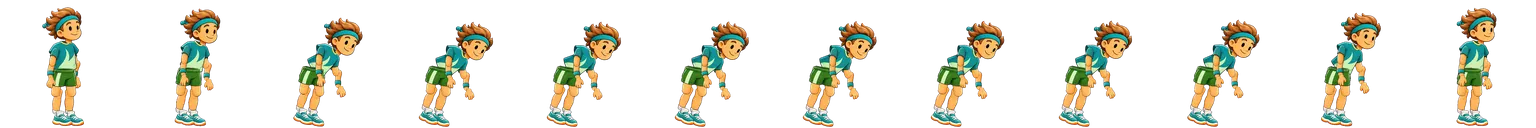
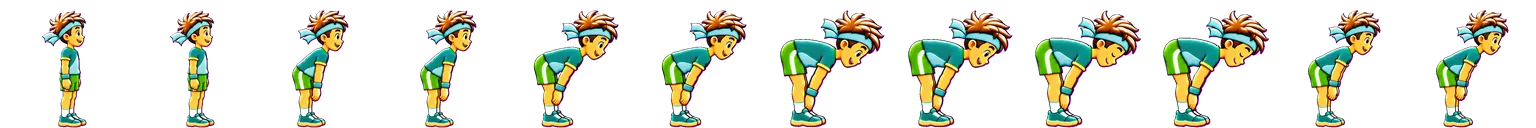
0.31.0: full-figure drawn exercise animations (23 drawn + wu_skips rig), 6 poses held for 2 frames
Claude-Session: https://claude.ai/code/session_015MgUfxYvuaf2H4JGRA2gxD

diff --git a/web/sw.js b/web/sw.js
@@ -1,5 +1,5 @@
 // Offline-first service worker. VERSION is kept equal to version.json by scripts/bump-version.mjs (a unit test enforces it).
-const VERSION = '0.30.0';
+const VERSION = '0.31.0';
 const CACHE = `stepup-${VERSION}`;
 const SHELL = ['./', 'index.html', 'manifest.webmanifest', 'version.json', 'icon.svg', 'css/packs.css', 'css/app.css',
   'js/app.js', 'js/routePlan.js', 'js/planner.js', 'js/planApi.js', 'js/ui/mapScreen.js', 'js/ui/planner.js', 'js/theme-boot.js', 'js/util.js', 'js/i18n.js', 'js/native.js', 'js/icons.js', 'js/brand.js', 'js/brandData.js', 'js/iconData.js', 'js/geo.js', 'js/workout.js', 'js/metronome.js', 'js/cadence.js', 'js/audio.js', 'js/format.js', 'js/store.js', 'js/ui/home.js', 'js/plan.js', 'js/indicators.js', 'js/appVersion.js', 'js/art.js', 'js/voice.js', 'js/records.js', 'js/facts.js', 'js/actions.js', 'js/guide.js', 'js/strings08.js', 'js/strings09.js', 'js/strings10.js', 'js/strings11.js', 'js/appShare.js', 'js/changelog.js', 'js/ui/shareApp.js', 'js/ui/whatsnew.js', 'js/permissions.js', 'js/ui/permissions.js', 'js/characterData.js', 'js/puppetRig.js', 'js/ui/puppet.js', 'js/ui/character.js', 'art/character/walk.webp', 'art/character/run.webp', 'art/character/pose-idle.webp', 'art/character/pose-jump.webp', 'art/character/pose-cheer.webp', 'art/character/pose-wave.webp', 'art/character/pose-rest.webp', 'art/character/pose-stretch.webp', 'art/character/pose-medal.webp', 'art/character/pose-trophy.webp', 'art/character/pose-podium.webp', 'art/character/pose-point.webp', 'art/character/pose-think.webp', 'art/character/pose-sit.webp', 'art/character/pose-sleep.webp', 'art/character/pose-rain.webp', 'js/weatherAnim.js', 'js/weatherAnimData.js', 'js/ui/skynow.js', 'js/ui/hourdetail.js', 'js/ui/progress.js', 'js/ui/imap.js', 'js/ui/mapviewer.js', 'js/ui/marks.js', 'js/exercises.js', 'js/exerciseData.js', 'js/ui/exercises.js', 'js/strings12.js', 'js/ui/directions.js', 'js/nav.js', 'js/ui/weather.js', 'art/weather-anim/clear_day.webp', 'art/weather-anim/clear_night.webp', 'art/weather-anim/drizzle_day.webp', 'art/weather-anim/fog_day.webp', 'art/weather-anim/freezing_rain_day.webp', 'art/weather-anim/hail_day.webp', 'art/weather-anim/heavy_rain_day.webp', 'art/weather-anim/mostly_clear_day.webp', 'art/weather-anim/mostly_clear_night.webp', 'art/weather-anim/overcast_day.webp', 'art/weather-anim/partly_cloudy_day.webp', 'art/weather-anim/partly_cloudy_night.webp', 'art/weather-anim/rain_day.webp', 'art/weather-anim/snow_day.webp', 'art/weather-anim/thunderstorm_day.webp', 'js/ui/guide.js', 'art/workout/banner-afternoon-dark.svg', 'art/workout/banner-afternoon-light.svg', 'art/workout/banner-evening-dark.svg', 'art/workout/banner-evening-light.svg', 'art/workout/banner-morning-dark.svg', 'art/workout/banner-morning-light.svg', 'art/workout/banner-night-dark.svg', 'art/workout/banner-night-light.svg', 'art/workout/card-forest-dark.svg', 'art/workout/card-forest-light.svg', 'art/workout/card-ocean-dark.svg', 'art/workout/card-ocean-light.svg', 'art/workout/card-sunrise-dark.svg', 'art/workout/card-sunrise-light.svg', 'art/workout/count-1-dark.svg', 'art/workout/count-1-light.svg', 'art/workout/count-2-dark.svg', 'art/workout/count-2-light.svg', 'art/workout/count-3-dark.svg', 'art/workout/count-3-light.svg', 'art/workout/count-4-dark.svg', 'art/workout/count-4-light.svg', 'art/workout/count-5-dark.svg', 'art/workout/count-5-light.svg', 'art/workout/count-go-dark.svg', 'art/workout/count-go-light.svg', 'art/workout/hint-double-tap-dark.svg', 'art/workout/hint-double-tap-light.svg', 'art/workout/hint-volume-keys-dark.svg', 'art/workout/hint-volume-keys-light.svg', 'js/ui/workoutShare.js', 'js/shareCard.js', 'js/metrics.js', 'js/gpx.js', 'js/daypart.js', 'js/challenge.js', 'art/celebrate/avatar-frame-dark.svg', 'art/celebrate/avatar-frame-light.svg', 'art/celebrate/confetti-circle-dark.svg', 'art/celebrate/confetti-circle-light.svg', 'art/celebrate/confetti-curl-dark.svg', 'art/celebrate/confetti-curl-light.svg', 'art/celebrate/confetti-rectangle-dark.svg', 'art/celebrate/confetti-rectangle-light.svg', 'art/celebrate/confetti-star-dark.svg', 'art/celebrate/confetti-star-light.svg', 'art/celebrate/confetti-triangle-dark.svg', 'art/celebrate/confetti-triangle-light.svg', 'art/celebrate/distance-record-dark.svg', 'art/celebrate/distance-record-light.svg', 'art/celebrate/fastest-kilometre-dark.svg', 'art/celebrate/fastest-kilometre-light.svg', 'art/celebrate/forest-dark.svg', 'art/celebrate/forest-light.svg', 'art/celebrate/laurel-dark.svg', 'art/celebrate/laurel-light.svg', 'art/celebrate/longest-streak-dark.svg', 'art/celebrate/longest-streak-light.svg', 'art/celebrate/medal-dark.svg', 'art/celebrate/medal-light.svg', 'art/celebrate/most-workouts-week-dark.svg', 'art/celebrate/most-workouts-week-light.svg', 'art/celebrate/ocean-dark.svg', 'art/celebrate/ocean-light.svg', 'art/celebrate/pace-record-dark.svg', 'art/celebrate/pace-record-light.svg', 'art/celebrate/podium-floor-dark.svg', 'art/celebrate/podium-floor-light.svg', 'art/celebrate/podium-steps-dark.svg', 'art/celebrate/podium-steps-light.svg', 'art/celebrate/rays-dark.svg', 'art/celebrate/rays-light.svg', 'art/celebrate/ribbon-dark.svg', 'art/celebrate/ribbon-light.svg', 'art/celebrate/sunrise-dark.svg', 'art/celebrate/sunrise-light.svg', 'art/celebrate/trophy-dark.svg', 'art/celebrate/trophy-light.svg', 'js/podiumCard.js', 'js/ui/podium.js', 'js/mapView.js', 'js/ui/maptiles.js', 'js/backup.js', 'js/ui/backup.js', 'art/badges/almost-distance-dark.svg', 'art/badges/almost-distance-light.svg', 'art/badges/almost-record-dark.svg', 'art/badges/almost-record-light.svg', 'art/badges/faster-last-dark.svg', 'art/badges/faster-last-light.svg', 'art/badges/fastest-km-dark.svg', 'art/badges/fastest-km-light.svg', 'art/badges/new-record-dark.svg', 'art/badges/new-record-light.svg', 'art/badges/passed-distance-dark.svg', 'art/badges/passed-distance-light.svg', 'art/onboarding/caught-up-dark.svg', 'art/onboarding/caught-up-light.svg', 'art/onboarding/no-plan-dark.svg', 'art/onboarding/no-plan-light.svg', 'art/onboarding/no-routes-dark.svg', 'art/onboarding/no-routes-light.svg', 'art/onboarding/no-workouts-dark.svg', 'art/onboarding/no-workouts-light.svg', 'art/onboarding/offline-dark.svg', 'art/onboarding/offline-light.svg', 'art/onboarding/welcome-dark.svg', 'art/onboarding/welcome-light.svg', 'art/weather/clear-dark.svg', 'art/weather/clear-light.svg', 'art/weather/cloudy-dark.svg', 'art/weather/cloudy-light.svg', 'art/weather/cold-dark.svg', 'art/weather/cold-light.svg', 'art/weather/hot-dark.svg', 'art/weather/hot-light.svg', 'art/weather/rain-dark.svg', 'art/weather/rain-light.svg', 'art/weather/windy-dark.svg', 'art/weather/windy-light.svg', 'js/update.js', 'js/strings07.js', 'js/ui/about.js', 'js/strings06.js', 'js/ui/plan.js', 'js/schedule.js', 'js/widgetData.js', 'js/syncNative.js', 'js/strings05.js', 'js/route.js', 'js/routeReco.js', 'js/strings04.js', 'js/ui/routes.js', 'js/ui/livemap.js', 'js/forecast.js', 'js/reco.js', 'js/weatherApi.js', 'js/strings03.js', 'js/ui/reco.js', 'js/stats.js', 'js/steps.js', 'js/effort.js', 'js/reminders.js', 'js/alerts.js', 'js/search.js', 'js/charts.js', 'js/reminderLoop.js', 'js/strings02.js', 'js/ui/dashboard.js', 'js/ui/alerts.js', 'js/ui/search.js', 'js/ui/notify.js', 'js/ui/settings.js', 'js/ui/history.js', 'js/ui/workout.js', 'js/ui/rhythm.js',

diff --git a/web/js/changelog.js b/web/js/changelog.js
@@ -1,5 +1,8 @@
 // "What is new", in the app's two languages: user-facing bullets only, newest first. docs/CHANGELOG.md is the developer copy (a unit test keeps the two in step).
 export const CHANGES = [
+  { v: '0.31.0',
+    en: ['New, fully drawn exercise animations: the character is drawn in every pose of every warm-up and cool-down exercise, so the movements look natural.'],
+    he: ['אנימציות חדשות ומצוירות במלואן לתרגילי החימום והשחרור: הדמות מצוירת בכל תנוחה, והתנועות נראות טבעיות.'] },
   { v: '0.30.0',
     en: ['Every warm-up and cool-down exercise now has a looping animation of the character, with its own tempo: brisk for jogging drills, slow for held stretches.', 'The pictures are drawn from one fixed set of the character\'s body parts, so the character looks the same in all of them.'],
     he: ['לכל תרגיל חימום ושחרור יש עכשיו אנימציה מתמשכת של הדמות, עם קצב משלו: מהיר לתרגילי ריצה, איטי למתיחות מוחזקות.', 'האיורים בנויים מאותה מערכת קבועה של חלקי גוף של הדמות, כך שהדמות נראית זהה בכולם.'] },

diff --git a/web/js/appVersion.js b/web/js/appVersion.js
@@ -1,2 +1,2 @@
 // The version of the code that is running (kept equal to version.json by scripts/bump-version.mjs; a unit test enforces it).
-export const APP_VERSION = '0.30.0';
+export const APP_VERSION = '0.31.0';

diff --git a/scripts/make-exercise-sprites.py b/scripts/make-exercise-sprites.py
@@ -3,7 +3,7 @@ Usage: python3 scripts/make-exercise-sprites.py <dir containing one folder per e
 Every frame of ALL exercises is cropped to one common box and scaled by one factor (the figure keeps its size and ground line), then one strip per exercise is written:
   web/art/exercises/<id>.webp   12 frames of 128 x 128 side by side
   web/js/exerciseData.js        the list of exercises with a picture and each one's loop time (from design/stepup/exercise-rig/loop_ms.json; generated, do not edit)
-The frames come from design/stepup/exercise-rig/ (the character's parts, the rig and the pose scripts: python3 batch.py) and, for nine stretches, from the illustrator's own renders."""
+The frames are the illustrator's full-figure drawings (6 poses per exercise, each held for 2 frames; design/stepup/exercises-fullpose/ keeps their contact sheets). wu_skips still comes from design/stepup/exercise-rig/ (the parts-and-rig renders, 12 frames) because the drawn version has a pink tint."""
 import sys, json
 from pathlib import Path
 import numpy as np
@@ -13,7 +13,10 @@ OUT = Path('web/art/exercises'); OUT.mkdir(parents=True, exist_ok=True)
 FR, N = 128, 12
 MS = json.loads(Path('design/stepup/exercise-rig/loop_ms.json').read_text())
 src = Path(sys.argv[1]); ids = sorted(p.name for p in src.iterdir() if p.is_dir())
-frames = {i: [np.asarray(Image.open(src / i / f'ex_{i}_{k:02d}_transparent.png').convert('RGBA')) for k in range(1, N + 1)] for i in ids}
+def load(i):                                             # 6 drawn poses are held for 2 frames each, 12 rendered frames are used as they are
+    files = sorted((src / i).glob(f'ex_{i}_[0-9][0-9]_transparent.png')); assert N % len(files) == 0, (i, len(files))
+    return [np.asarray(Image.open(f).convert('RGBA')) for f in files for _ in range(N // len(files))]
+frames = {i: load(i) for i in ids}
 x0 = y0 = 10 ** 9; x1 = y1 = -1
 for fl in frames.values():
     for f in fl:

diff --git a/docs/CONTEXT.md b/docs/CONTEXT.md
@@ -6,8 +6,8 @@ Read this first in a new session. It says what the product is, where everything 
 **StepUp** (repo `ohadsam/distance_analyzer`): a walking and running tracker. One vanilla-JS web app (`web/`, no build step, no runtime dependencies) shipped as a **PWA** (GitHub Pages) and as a thin **Android WebView app** (`android/`, same `web/` folder as assets). Hebrew (RTL) is the default, English is chosen in Settings. No server, no account; data stays on the device. Branch `main` is the primary branch.
 Owner's standing rules live in `.claude/skills/release-checklist/SKILL.md` (section 0). Requests and their status: `docs/REQUESTS.md`. Plan: `docs/ROADMAP.md`.
 
-## Status (0.30.0)
-Done: **looping animations for all 24 exercises (0.30.0; 8 still weak, ROUND18 pending), mark point, interactive maps everywhere (zoom, address search, measuring, km markers), turn-by-turn navigation with voice, written directions, progress bars, warm-up / cool-down exercises, effort chart with advice, broader global search (0.29.0)**, **a Weather card always on Home and tappable weather charts showing the hour's temperature / humidity / rain (0.28.0)**, **measuring starts when the run / walk really starts (movement detection), the weather screen with hour-by-hour humidity / rain for any place or route, animated charts (0.27.0)**, **animated weather pictures for the sky now (Home day card, Recommendations) from the illustrator's 15 animations (0.26.0)**, **steps counted all day by a quiet foreground service (the background alarm could never read the sensor) - 0.25.2, needs a phone to confirm**, **the steps widget refreshes by itself (every 15 min, on leaving the app, after restart or update) - 0.25.1, needs a phone to confirm**, **share sheet (WhatsApp, e-mail, share menu, copy) and a "what is new" window (0.25.0)**, **web app updates itself (fresh files for a new service worker, one automatic reload) (0.24.1)**, **permissions screen + start-up sheet, map / weather / planner on by default with automatic location, in-app update that installs over the app (0.24.0)**, **an illustrated character with walk / run strips and still poses (0.23.0)**, **Trail from the designer brief (10 poses, per-pose joint pivots) (0.22.0)**, **Trail V5 (15 connected poses) with the countdown and the guide (0.21.0)**, **Trail as an athlete (kit V3) on the start cards, welcome, summary and the user guide (0.20.0)**, **redesigned single-colour icons, Trail (the logo-born companion character, 8 poses) on the start cards / welcome / summary, live speed gauge, active navigation icons, calm-animations switch (0.19.0)**, **user guide (interactive tour with screenshots), search over actions / your data / the guide, a clear live map, a quiet first-run home, map screen with distance measuring, route planner by address and distance (0.18.0)**, **workout visual kit: banners, workout cards, countdown numerals, hints, number icons (0.17.0)**, **choose your workout numbers, day card, history sort/records/GPX/share picture, hands-free, countdown, wide layout (0.16.0)**, **new minimal workout screen, background voice, stop hint, sunlight mode, weekly challenge + Sunday summary, kit podium (0.15.0)**, **opt-in street map, battery optimisation, record celebration with victory photo (0.14.0)**, **backup/restore, week-bars widget, monthly summary (0.13.0)**, **rhythm coach and charts in the kit's look, folded filters, spoken cues (0.12.0)**, **kit art integrated: empty states, weather banner, indication badges, widget backgrounds, Android 12 splash (0.11.0)**, **update check, newest-APK download and share from inside the app (0.10.0)**, **two more Android widgets (last workout, next session) with a designed background (0.9.1, launcher verification pending)**, **bottom navigation, collapsible settings, lighter first dashboard, welcome card (0.9.0)**, **live in-workout indications (records, last time, faster km - 0.8.1)**, **training plans (build, week view, auto-match, gentle catch-up, reminders - 0.8.1)**, Android home-screen widgets (steps, weekly effort, measure now - 0.7.0, launcher verification pending)**, Android background (screen-off tracking, all-day steps, notifications when closed - 0.6.0, real-device verification pending)**, quick actions, routes (save, recognise, progress, suggestions, one-time, follow with ghost), tile-less live map (0.5.0)**, recommendations by weather and routine (0.4.0, opt-in network)**, workout mode (GPS distance/pace/splits, pause, lock, resume), smart rhythm coach (metronome + breathing guide), history, design foundation + StepUp brand, effort bar by age and history with deviation alerts, quality-weighted steps, dashboard (customisable widgets, filters, drill-down), alerts inbox, global search, reminders (fixed + smart nudges, while the app is open), manual weather per workout with weather-aware stats.
+## Status (0.31.0)
+Done: **looping full-figure drawn animations for all 24 exercises (0.31.0; 6 weak ones to redo), mark point, interactive maps everywhere (zoom, address search, measuring, km markers), turn-by-turn navigation with voice, written directions, progress bars, warm-up / cool-down exercises, effort chart with advice, broader global search (0.29.0)**, **a Weather card always on Home and tappable weather charts showing the hour's temperature / humidity / rain (0.28.0)**, **measuring starts when the run / walk really starts (movement detection), the weather screen with hour-by-hour humidity / rain for any place or route, animated charts (0.27.0)**, **animated weather pictures for the sky now (Home day card, Recommendations) from the illustrator's 15 animations (0.26.0)**, **steps counted all day by a quiet foreground service (the background alarm could never read the sensor) - 0.25.2, needs a phone to confirm**, **the steps widget refreshes by itself (every 15 min, on leaving the app, after restart or update) - 0.25.1, needs a phone to confirm**, **share sheet (WhatsApp, e-mail, share menu, copy) and a "what is new" window (0.25.0)**, **web app updates itself (fresh files for a new service worker, one automatic reload) (0.24.1)**, **permissions screen + start-up sheet, map / weather / planner on by default with automatic location, in-app update that installs over the app (0.24.0)**, **an illustrated character with walk / run strips and still poses (0.23.0)**, **Trail from the designer brief (10 poses, per-pose joint pivots) (0.22.0)**, **Trail V5 (15 connected poses) with the countdown and the guide (0.21.0)**, **Trail as an athlete (kit V3) on the start cards, welcome, summary and the user guide (0.20.0)**, **redesigned single-colour icons, Trail (the logo-born companion character, 8 poses) on the start cards / welcome / summary, live speed gauge, active navigation icons, calm-animations switch (0.19.0)**, **user guide (interactive tour with screenshots), search over actions / your data / the guide, a clear live map, a quiet first-run home, map screen with distance measuring, route planner by address and distance (0.18.0)**, **workout visual kit: banners, workout cards, countdown numerals, hints, number icons (0.17.0)**, **choose your workout numbers, day card, history sort/records/GPX/share picture, hands-free, countdown, wide layout (0.16.0)**, **new minimal workout screen, background voice, stop hint, sunlight mode, weekly challenge + Sunday summary, kit podium (0.15.0)**, **opt-in street map, battery optimisation, record celebration with victory photo (0.14.0)**, **backup/restore, week-bars widget, monthly summary (0.13.0)**, **rhythm coach and charts in the kit's look, folded filters, spoken cues (0.12.0)**, **kit art integrated: empty states, weather banner, indication badges, widget backgrounds, Android 12 splash (0.11.0)**, **update check, newest-APK download and share from inside the app (0.10.0)**, **two more Android widgets (last workout, next session) with a designed background (0.9.1, launcher verification pending)**, **bottom navigation, collapsible settings, lighter first dashboard, welcome card (0.9.0)**, **live in-workout indications (records, last time, faster km - 0.8.1)**, **training plans (build, week view, auto-match, gentle catch-up, reminders - 0.8.1)**, Android home-screen widgets (steps, weekly effort, measure now - 0.7.0, launcher verification pending)**, Android background (screen-off tracking, all-day steps, notifications when closed - 0.6.0, real-device verification pending)**, quick actions, routes (save, recognise, progress, suggestions, one-time, follow with ghost), tile-less live map (0.5.0)**, recommendations by weather and routine (0.4.0, opt-in network)**, workout mode (GPS distance/pace/splits, pause, lock, resume), smart rhythm coach (metronome + breathing guide), history, design foundation + StepUp brand, effort bar by age and history with deviation alerts, quality-weighted steps, dashboard (customisable widgets, filters, drill-down), alerts inbox, global search, reminders (fixed + smart nudges, while the app is open), manual weather per workout with weather-aware stats.
 Not done / known limits: the smart "no movement" nudge works only while the app is open; Android background features are verified only by a stand-in bridge and CI; internet is used only on request: the weather forecast (opt-in, Open-Meteo), update check (GitHub), map tiles (opt-in, OpenStreetMap) and the route planner (opt-in, four public services) - its live answer is unverified (sandbox blocks the host); automatic weather *per workout* (history) is still not built; the route planner's live answers (Nominatim, FOSSGIS OSRM, Open-Meteo elevation, Overpass) are only verified against stand-ins because the sandbox blocks those hosts, and its crossing / sidewalk reading depends on how well OpenStreetMap is mapped where you are; Kotlin is only compiled in CI; sensor thresholds are tuned on synthetic data, not a real run; steps are estimated from tracked workouts (no passive counter yet).
 
 ## How to run and verify

diff --git a/docs/ARCHITECTURE.md b/docs/ARCHITECTURE.md
@@ -78,7 +78,7 @@ GPS: 1 s fixes, 4 s after 15 slow fixes in a row (`TrackingMath`); service stops
 * **Marks** `workout.js`: `addMark` (position = last accepted fix, totals, 3 s guard, 50 max), `markRows` (totals + segment since the previous mark), `sanitizeMarks`; saved with the workout (`summarize` / `sanitizeWorkout` / `sanitizeActive`). `ui/marks.js` the table; `liveMap.update(points, route, marks, focus)` draws numbered pins and the next-turn dot.
 * **Navigation** `nav.js` (pure): `turnsOf(path)` resamples every 15 m and reports a turn where the heading differs by >= 30 degrees between the 45 m before and after (curves once, at the sharpest point; slight / normal / sharp / U-turn), `stepsOf`, `createNav(path, turns)` follows the walker along the line (searches the stretch around the last progress, so a loop does not jump to its end; falls back to the whole line when lost; `off` = more than 45 m away) and `cueOf` yields the spoken cue due (once each: ~200 m before, ~30 m "now", off route every 30 s, back on, arrival). `ui/workout.js` shows the banner and speaks through `voice.speak` when pref `navVoice` (default on) allows - independent of the kilometre voice. Page-side only: the Android background service does not speak directions (the screen is kept on during a workout).
 * **Directions** `ui/directions.js` arrows + `directionsBox(path)` (a `<details>` with the steps) on planner cards and route pages.
-* **Exercises** `exercises.js` (pure: ids, seconds, `sessionOf`, `coolDownMinutes`: by distance, +2 min after a hard run) + `exerciseData.js` (`ANIMATED` ids that have `web/art/exercises/<id>.webp`; empty until delivered, a unit test keeps list and files in step) + `ui/exercises.js` (`#/exercises/<warmup|cooldown>/<run|walk>`, list and guided session with `progressBar`, pose fallback). Entries: ready screen link, summary `coolCard`, Recommendations hub, search. Pictures: `web/art/exercises/<id>.webp` (12 frames x 128 px, `exerciseData.js` ANIMATED + `EXERCISE_MS` per-exercise loop time, generated by `scripts/make-exercise-sprites.py`); frames come from `design/stepup/exercise-rig/` (`ex.py` pose functions of the loop phase, `lib.py` angle conventions + feet planted by inverse kinematics, `batch.py` renders; parts and rigs from the illustrator) and, for nine stretches, the illustrator's renders.
+* **Exercises** `exercises.js` (pure: ids, seconds, `sessionOf`, `coolDownMinutes`: by distance, +2 min after a hard run) + `exerciseData.js` (`ANIMATED` ids that have `web/art/exercises/<id>.webp`; empty until delivered, a unit test keeps list and files in step) + `ui/exercises.js` (`#/exercises/<warmup|cooldown>/<run|walk>`, list and guided session with `progressBar`, pose fallback). Entries: ready screen link, summary `coolCard`, Recommendations hub, search. Pictures: `web/art/exercises/<id>.webp` (12 frames x 128 px, `exerciseData.js` ANIMATED + `EXERCISE_MS` per-exercise loop time, generated by `scripts/make-exercise-sprites.py`); frames are the illustrator's full-figure drawings (6 poses, each held for 2 of the 12 frames; sheets in `design/stepup/exercises-fullpose/`); `wu_skips` is a parts-and-rig render from `design/stepup/exercise-rig/`.
 * **Effort advice** `effort.js` `effortAdvice(rows, plan, now)` -> trend + band + tips; `charts.barChart({ band })` draws the range; dashboard effort widget and drill-down show it.
 * **Progress bars** `ui/progress.js`.
 

diff --git a/docs/CHANGELOG.md b/docs/CHANGELOG.md
@@ -1,5 +1,8 @@
 # Changelog
 
+## 0.31.0
+- **Exercise animations redone as full-figure drawings.** The parts-and-rig renders of 0.30.0 looked stiff (distorted shoulders and shorts), so 23 of the 24 exercises now use the illustrator's fully drawn poses (6 poses each, every pose held for 2 of the 12 frames; per-exercise loop times from the illustrator's data, 1.2 s to 4 s). `wu_skips` keeps the rig render (the drawn one has a pink tint). `scripts/make-exercise-sprites.py` takes 6 or 12 frames per exercise; the contact sheets are in `design/stepup/exercises-fullpose/`. Known weaker drawn ones (to redo): `wu_skips` (pink tint), `cd_glute` (figure-4 contact unclear), `wu_calf_raises` (heel barely lifts), `wu_hip_circles` (circle hardly visible), `wu_ankle_rolls`, `cd_chest` (hands not visibly clasped). The ChatGPT output says itself: technical QA only, identity and form not certified.
+
 ## 0.30.0
 - **Exercise animations.** All 24 warm-up / cool-down exercises have a 12-frame looping picture (`web/art/exercises/<id>.webp`, 128 px frames) with its own loop time (`EXERCISE_MS`: 1.2 s for jogging drills, 3.6 s for held stretches). Fifteen are rendered by our own pose scripts (`design/stepup/exercise-rig/`: the illustrator's fixed character parts + rig, joint angles per exercise, planted feet by inverse kinematics, near-leg layering fix; `python3 batch.py`), nine stretches are the illustrator's own renders. Generated by `scripts/make-exercise-sprites.py` (common crop box, one scale, writes `exerciseData.js`). The service worker caches the 24 files. Known weak (to be redone, see `docs/prompts/ROUND18_EXERCISES_REMAINING_PROMPT.md`): `cd_quad` (hand does not hold the ankle), `cd_hamstring` (soft-knee fold, not heel-forward), `cd_chest` (hands not visibly clasped), `cd_it_band` (legs not crossed), `cd_glute`, `wu_torso_twist`, `wu_hip_circles`, `wu_ankle_rolls`.
 

diff --git a/docs/PENDING_CHATGPT_PROMPTS.md b/docs/PENDING_CHATGPT_PROMPTS.md
@@ -32,3 +32,5 @@ Flow: prompt written here → owner pastes it in ChatGPT → owner returns the r
 - #18 (`docs/prompts/ROUND18_EXERCISES_REMAINING_PROMPT.md`): the 8 exercises still weak (cd_quad, cd_hamstring, cd_chest, cd_it_band, cd_glute, wu_torso_twist, wu_hip_circles, wu_ankle_rolls) - attach `design/stepup/exercise-rig-source.zip`; pending user send.
 
 - #19 (`docs/prompts/ROUND19_EXERCISES_FULL_DRAWN_PROMPT.md`): the parts-and-rig look was judged odd by the owner; back to FULL-FIGURE drawn poses (6 per exercise, 3x2 grid, like the approved walk/run sheets). Supersedes #18; pending user send. The app plays 6 frames by repeating each (script change needed when they arrive).
+
+- #19 returned (4 zips, 24 exercises) and integrated in 0.31.0. Still to ask ChatGPT to redo (small follow-up prompt, not yet written): wu_skips (pink tint), cd_glute, wu_calf_raises, wu_hip_circles, wu_ankle_rolls, cd_chest.

diff --git a/docs/REQUESTS.md b/docs/REQUESTS.md
@@ -123,3 +123,4 @@ Status: ✅ shipped (version) · 🟡 partly (what is missing) · ⛔ not possib
 | 105 | Global search over capabilities and things saved by the user | ✅ 0.29.0 |
 | 106 | Rewrite the exercise-animation production prompt as a hybrid rig + deterministic rendering pipeline (after ChatGPT's feedback) | ✅ docs/prompts/ROUND16_EXERCISES_RIG_PROMPT.md (ROUND15 superseded) |
 | 107 | Integrate ChatGPT's exercise renders, improve what we can ourselves with the rig scripts, prompt for the rest | ✅ 0.30.0 (all 24 animated; docs/prompts/ROUND18_EXERCISES_REMAINING_PROMPT.md for the 8 weak ones) |
+| 108 | Back to full-figure drawn exercise poses (the parts method looked odd) | ✅ 0.31.0 (prompt ROUND19; 23 drawn + wu_skips rig) |
